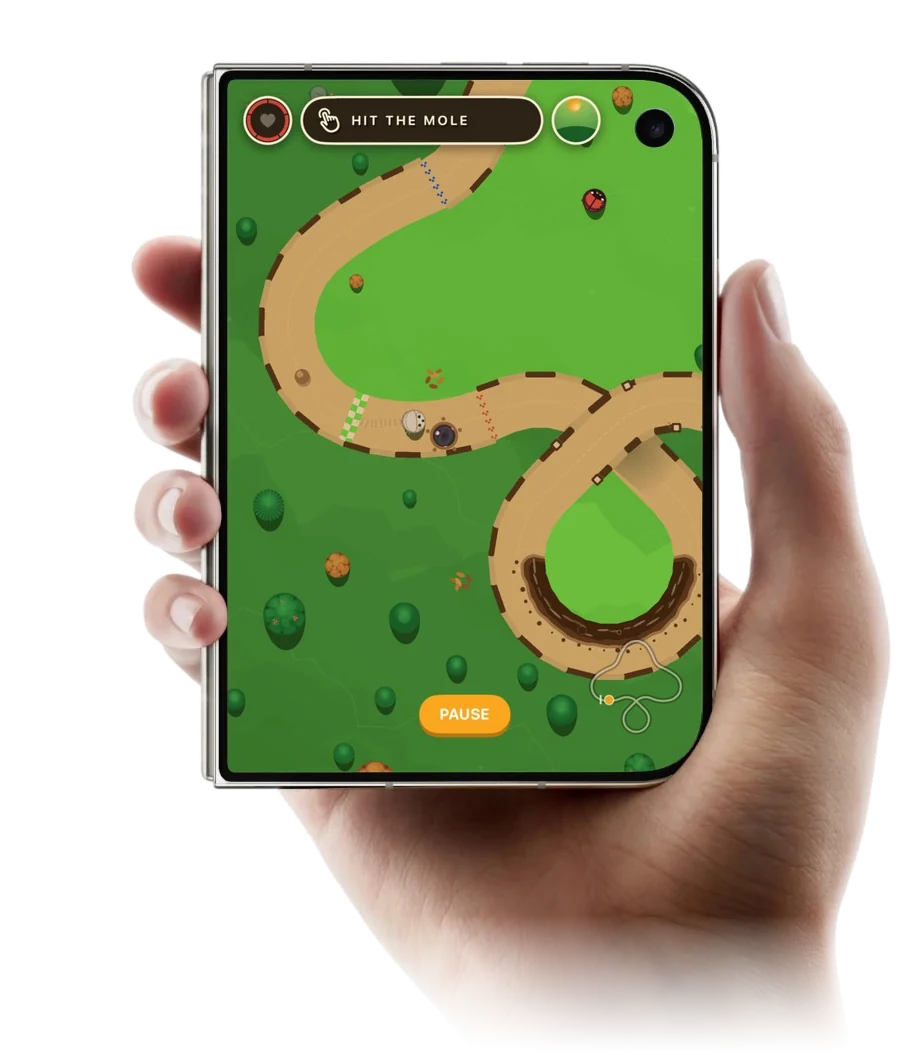
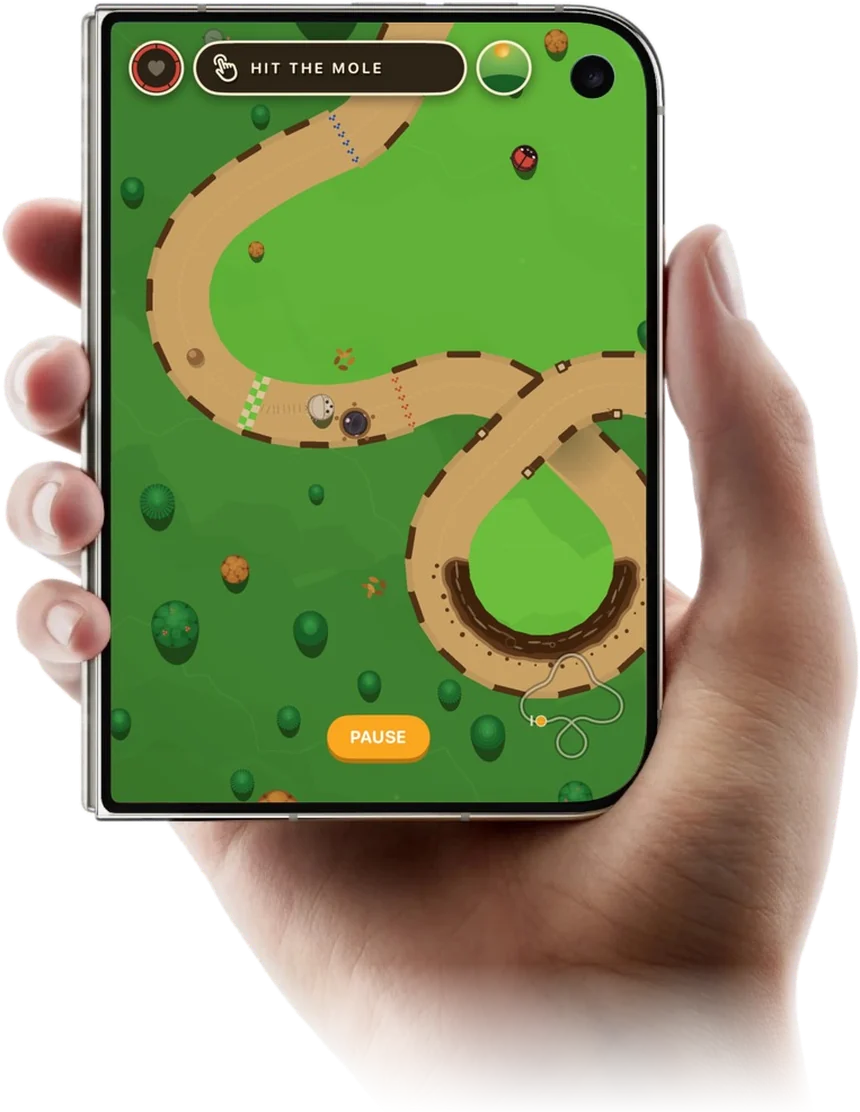
Animal Loop: iPhone, folded Duo and open Duo side by side
- Add a Dune Flats screenshot on an iPhone held in one hand
- Lay out the iPhone, the folded iPhone Duo and the open iPhone Duo in
  one row at a shared height, under a centered heading and device chips,
  instead of stacking them; on phones the first two share a row and the
  open Duo sits under them
- Trim the photos to their edges so they line up

Claude-Session: https://claude.ai/code/session_01D4igWGyBNokbvwgZ7sUkR1

diff --git a/animal-loop/index.html b/animal-loop/index.html
@@ -168,17 +168,18 @@
   .daynight img { width: 100%; height: 100%; object-fit: cover; display: block; }
 
   /* devices */
-  .devices .split { grid-template-columns: 1fr 1.05fr; }
-  .devices .photo { margin: 0; }
-  .devices .photo img { display: block; width: 100%; height: auto; }
-  .devices figure { display: flex; flex-direction: column; gap: 4px; }
-  .devices .open { width: 100%; max-width: 980px; margin: 32px 0 0; }
-  .devices .open img { display: block; width: 100%; height: auto; }
-  .chips { list-style: none; margin: 4px 0 0; padding: 0; display: flex; flex-wrap: wrap; gap: 10px; }
+  .chips { list-style: none; margin: 4px 0 0; padding: 0; display: flex; flex-wrap: wrap; justify-content: center; gap: 10px; }
   .chips li { font-size: 16px; font-weight: 900; color: var(--navy); background: #FFFDF6; padding: 8px 16px; border-radius: 99px; box-shadow: 0 0 0 1.5px #EADFC4, 0 3px 0 #EADFC4; }
   .chips li.new { background: var(--amber); box-shadow: 0 3px 0 var(--amber-deep); }
   .chips li.new small { font-family: var(--mono); font-size: 11px; font-weight: 600; letter-spacing: 1px; text-transform: uppercase; margin-left: 6px; }
-  @media (max-width: 900px) { .devices .split { grid-template-columns: 1fr; } .devices .photo { max-width: 460px; width: 100%; justify-self: center; } }
+  /* Each photo grows in proportion to its aspect ratio, so all three share one height. */
+  .lineup { width: 100%; max-width: 1180px; margin-top: 44px; display: flex; align-items: flex-end; gap: 28px; }
+  .lineup figure { margin: 0; flex: var(--ar) 1 0; min-width: 0; display: flex; flex-direction: column; gap: 6px; }
+  .lineup img { display: block; width: 100%; height: auto; }
+  @media (max-width: 560px) {
+    .lineup { flex-wrap: wrap; gap: 24px 12px; }
+    .lineup .open { flex-basis: 100%; }
+  }
 
   /* diary */
   .diary { width: 100%; max-width: 1040px; display: grid; grid-template-columns: 1.1fr 1fr; background: #FFFDF6; border-radius: 28px; overflow: hidden; text-decoration: none; color: var(--navy); box-shadow: 0 0 0 1.5px #EADFC4, 0 6px 0 #EADFC4; }
@@ -393,20 +394,21 @@
 </section>
 
 <section class="sec devices" aria-labelledby="devices">
-  <div class="split">
-    <div class="txt">
-      <h2 id="devices">Plays on every screen</h2>
-      <p>Animal Loop runs on <strong>every iPhone, iPad and Mac</strong>, and it's ready for the new <strong>iPhone Duo</strong>. One tap still steers, whatever you're holding.</p>
-      <ul class="chips" aria-label="Supported devices">
-        <li>iPhone</li>
-        <li>iPad</li>
-        <li>Mac</li>
-        <li class="new">iPhone Duo<small>New</small></li>
-      </ul>
-    </div>
-    <figure class="photo"><img src="assets/duo-in-hand.webp" alt="Animal Loop's Fern Hollow track on an iPhone Duo held in one hand" width="920" height="1055" loading="lazy"><figcaption class="cap">Folded</figcaption></figure>
+  <div class="head center">
+    <h2 id="devices">Plays on every screen</h2>
+    <p>Animal Loop runs on <strong>every iPhone, iPad and Mac</strong>, and it's ready for the new <strong>iPhone Duo</strong>. One tap still steers, whatever you're holding.</p>
+    <ul class="chips" aria-label="Supported devices">
+      <li>iPhone</li>
+      <li>iPad</li>
+      <li>Mac</li>
+      <li class="new">iPhone Duo<small>New</small></li>
+    </ul>
   </div>
-  <figure class="open"><img src="assets/duo-open-in-hands.webp" alt="Animal Loop's Coral Shallows trefoil track across the open iPhone Duo, held in two hands" width="1630" height="892" loading="lazy"><figcaption class="cap">Open</figcaption></figure>
+  <div class="lineup">
+    <figure style="--ar: 0.733"><img src="assets/iphone-in-hand.webp" alt="A Dune Flats track in Animal Loop on an iPhone held in one hand" width="740" height="1009" loading="lazy"><figcaption class="cap">iPhone</figcaption></figure>
+    <figure style="--ar: 0.773"><img src="assets/duo-in-hand.webp" alt="Animal Loop's Fern Hollow track on an iPhone Duo held in one hand" width="860" height="1112" loading="lazy"><figcaption class="cap">iPhone Duo, folded</figcaption></figure>
+    <figure class="open" style="--ar: 1.788"><img src="assets/duo-open-in-hands.webp" alt="Animal Loop's Coral Shallows trefoil track across the open iPhone Duo, held in two hands" width="1500" height="839" loading="lazy"><figcaption class="cap">iPhone Duo, open</figcaption></figure>
+  </div>
 </section>
 
 <div class="divider" aria-hidden="true"><div class="dots"></div><div class="done" style="width: 84%"></div><div class="flag"></div><div class="ball" style="left: 84%; transform: rotate(-8deg)"><div><div style="position:relative; width:56px; height:56px"><div style="position:absolute; inset:0; border-radius:50%; background:#dfa96a; box-shadow:inset 0 0 0 3px #a9743a"></div>
